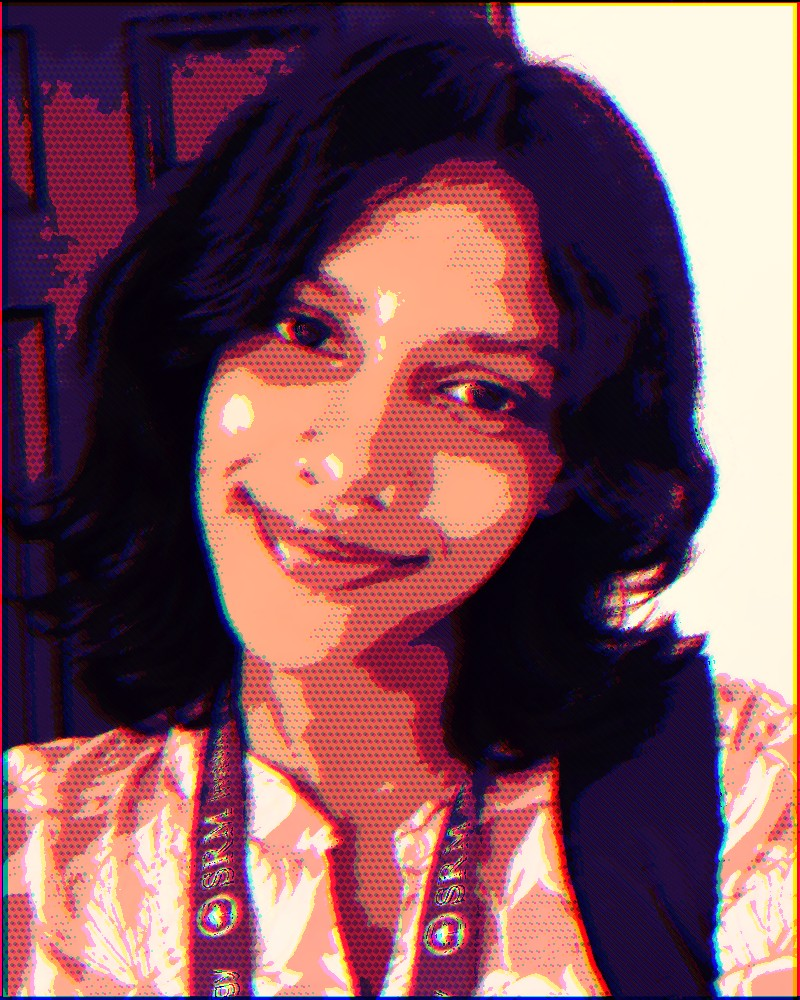
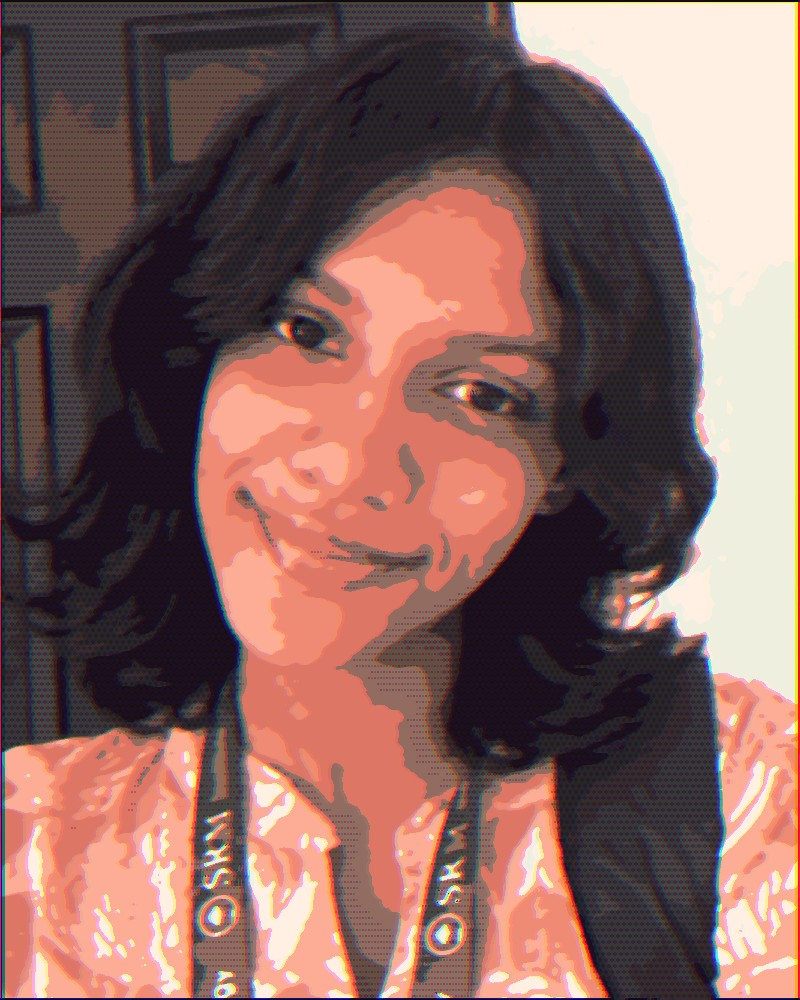
Refine the portrait hover: cleaner comic art, fewer effects

diff --git a/index.html b/index.html
@@ -891,6 +891,23 @@
   .gen-media video { width: 100%; height: 100%; display: block; background: #0b0910; }
   @media (prefers-reduced-motion: reduce) { .verse.on .c-c, .verse.on .c-k, .verse.hit .frame, .verse.hit .c-m, .verse.hit .bars i { animation: none !important; } }
   @media (max-width: 980px) { .verse .bubble { left: 8px; } .verse .sfx { right: 8px; } }
+
+  /* ---- refined hover moment (overrides the earlier, louder version) ---- */
+  .verse.on .frame { box-shadow: 5px 5px 0 #ff1f4b, -4px -4px 0 #19e3ff !important; transform: none !important; }
+  .verse .frame { transition: box-shadow .18s steps(2) !important; }
+  .verse .c-m { transition: opacity .12s steps(2); }
+  .verse .dots { background-image: radial-gradient(circle, rgba(22,12,40,.55) 1px, transparent 1.4px) !important; background-size: 5px 5px !important;
+    -webkit-mask: linear-gradient(135deg, transparent 55%, #000 100%); mask: linear-gradient(135deg, transparent 55%, #000 100%); }
+  .verse.on .dots { opacity: .7 !important; }
+  .verse .mode { position: absolute; right: 10px; top: 10px; z-index: 3; font-family: var(--mono); font-size: 10.5px; letter-spacing: .14em; text-transform: uppercase;
+    color: #fff; background: rgba(12,8,18,.72); padding: 4px 8px; opacity: 0; transition: opacity .15s steps(2); }
+  .verse.on .mode { opacity: 1; }
+  .verse.hit .frame { animation: vshake2 .3s steps(4) !important; }
+  .verse.hit .c-m { animation: vslice .3s steps(4) !important; }
+  @keyframes vshake2 { 0%{transform:none} 33%{transform:translate(-3px,1px)} 66%{transform:translate(3px,-1px)} 100%{transform:none} }
+  body::before { display: none; }
+  body.verse-on .hero h1 { text-shadow: 1.5px 0 0 rgba(255,31,75,.8), -1.5px 0 0 rgba(25,227,255,.8) !important; }
+  body.verse-on .hero .role em { color: inherit; }
 </style>
 </head>
 <body>
@@ -946,19 +963,12 @@
     </div>
     <div class="portrait">
       <div class="verse" id="verse">
-        <svg class="splat" viewBox="0 0 200 200" aria-hidden="true"><path d="M100 18c10 22 30 6 38 24s28 6 26 30-22 22-8 40 10 34-14 34-18 24-40 16-30 14-38-8-34-10-26-32 4-26-8-46-24-22-2-40 26 4 36-14 20-30 32-14z"/><circle cx="174" cy="40" r="7"/><circle cx="22" cy="150" r="9"/><circle cx="186" cy="150" r="4"/><circle cx="36" cy="30" r="4"/></svg>
         <div class="frame">
           <img class="real" src="img/aira.jpg?v=6" alt="Portrait of Aira K. Salish" width="800" height="1000">
-          <img class="comic c-m" src="img/aira-comic.jpg?v=2" alt="" aria-hidden="true">
-          <img class="comic c-c" src="img/aira-comic.jpg?v=2" alt="" aria-hidden="true">
-          <img class="comic c-k" src="img/aira-comic.jpg?v=2" alt="" aria-hidden="true">
+          <img class="comic c-m" src="img/aira-comic.jpg?v=3" alt="" aria-hidden="true">
           <span class="dots" aria-hidden="true"></span>
-          <span class="scan" aria-hidden="true"></span>
-          <span class="bars" aria-hidden="true"><i></i><i></i><i></i></span>
+          <span class="mode" aria-hidden="true">comic&nbsp;mode</span>
         </div>
-        <span class="bubble" aria-hidden="true">hey, it's me!</span>
-        <span class="sfx" aria-hidden="true">POP!</span>
-        <span class="tag" aria-hidden="true">EARTH-2027</span>
       </div>
       <p class="caption"><a href="#certifications">AWS Certified AI Practitioner</a><a href="#certifications">Red Hat RH294 · SAP Certified</a></p>
     </div>
